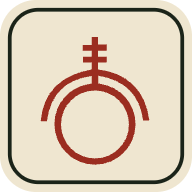
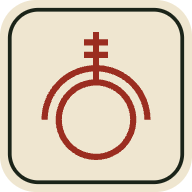
feat: the sigil drawn true, in one place
The hand-drawn seal had a slanted stem top, uneven crossbars and a lopsided
arch. Redrawn from exact shapes on one centre line (ring, a semicircular arch
concentric with it, stem, two equal bars), one stroke weight, as one outline
plus the ring's hole. Shared by the logo, the binding and the wax seal; the
icons are regenerated from it.

Changed region(s): [[0.2188, 0.1562, 0.8125, 0.875], [0.1875, 0.5938, 0.25, 0.6562]]

diff --git a/src/scripts/codex/scenes.ts b/src/scripts/codex/scenes.ts
@@ -1,3 +1,4 @@
+import { SIGIL, SIGIL_CENTRE } from '../../components/sigil';
 import * as THREE from 'three';
 import { SVGLoader } from 'three/examples/jsm/loaders/SVGLoader.js';
 
@@ -96,8 +97,6 @@ export function stilus(): THREE.BufferGeometry[] {
 
 /* ─── Sigillum · the author: the sigil pressed into wax, in laurel ─── */
 
-const SIGIL =
-  'M186.935,163.024c1.83,-0.328 3.848,-0.669 6.065,-1.024l0,-22c-77.616,10.315 -119.236,53.48 -130,131l-18,0c8.029,-85.417 58.948,-134.056 148,-150l0,-20l-25,0l0,-17l25,0l0,-17l-26,0l0,-17l26,0l0,-23l18,0l0,22l26,0l0,18l-26,0l0,17l26,0l0,17l-26,0l0,20c82.809,9.243 138.835,59.577 149,148l-18,0c-9.378,-74.566 -52.801,-117.211 -130,-130l0,23c4.637,-0.159 4.107,0.696 8.491,1.371c56.323,8.67 99.509,57.396 99.509,116.129c0,64.85 -52.65,117.5 -117.5,117.5c-64.85,0 -117.5,-52.65 -117.5,-117.5c0,-59.574 44.431,-108.852 101.935,-116.476Zm15.565,18.976c-54.364,0 -98.5,44.136 -98.5,98.5c0,54.364 44.136,98.5 98.5,98.5c54.364,0 98.5,-44.136 98.5,-98.5c0,-54.364 -44.136,-98.5 -98.5,-98.5Z';
 
 export function sigillum(): THREE.BufferGeometry[] {
   const parts: THREE.BufferGeometry[] = [];
@@ -127,7 +126,7 @@ export function sigillum(): THREE.BufferGeometry[] {
     bevelSize: 2.5,
     bevelSegments: 2,
     curveSegments: 32,
-  }).translate(-205.5, -204.5, -0.06); // centre of the 411×409 viewBox
+  }).translate(-SIGIL_CENTRE.x, -SIGIL_CENTRE.y, -0.06);
   // SVG y points down. Flipping z too keeps the determinant positive, so the
   // winding (and which faces get culled) survives the mirror.
   sigil.scale(0.0041, -0.0041, -1);

diff --git a/src/components/sigil.ts b/src/components/sigil.ts
@@ -1,0 +1,11 @@
+// The author's sigil, the seal used as the site's mark: a ring, an arch round
+// it, and a stem with two crossbars, drawn on one centre line (x = 205) in
+// strokes of one weight. One outline and the ring's hole, so it can be filled,
+// traced as a line (the binding's tooling) or extruded (the wax seal).
+
+/** The 410 × 410 box the sigil is drawn in, and its centre. */
+export const SIGIL_BOX = 410;
+export const SIGIL_CENTRE = { x: 205, y: 212.5 };
+
+export const SIGIL =
+  'M196,27H214V48H240V66H214V84H240V102H214V123.26A158 158 0 0 1 363,281H345A140 140 0 0 0 214,141.29V164.35A117 117 0 1 1 196,164.35V141.29A140 140 0 0 0 65,281H47A158 158 0 0 1 196,123.26V102H170V84H196V66H170V48H196ZM205,182A99 99 0 1 0 205,380A99 99 0 1 0 205,182Z';

diff --git a/CLAUDE.md b/CLAUDE.md
@@ -16,6 +16,8 @@ Home: the Via Sacra (`forum.ts`, geometry in `forum-models.ts`), a 2.5D orthogra
 
 On a phone (portrait) the book is a scroll: the page lies between two wooden rollers (`.roller--top`, `.roller--bottom`, fixed outside `.book` in `Codex.astro`) on the dark of the desk, with no boards. A page change winds the old page up into the bottom roller as it rises to the top, then unwinds the new one down (`scroll-wind`, `scroll-unwind`, `roller-travel`: the roller is its own view-transition group, moved by `translate` over `--scroll-travel`, in step with the page's clip). A first visit finds it rolled up in the middle of the screen and opens it both ways (`opening.ts`).
 
+The sigil (the site's mark) is one path in `src/components/sigil.ts`, drawn true on one centre line: `Logo.astro`, the binding's tooled sigil and the wax seal (`sigillum` in `scenes.ts`) all use it. Change it there, then regenerate the icons.
+
 Icons: `public/favicon.svg` (square, the seal in rubric on paper), `favicon.ico` (16/32/48 PNGs in an ICO), `favicon-48.png`, `favicon-96.png`, `apple-touch-icon.png`, `icon-192.png`/`icon-512.png` and `site.webmanifest`. Search results need a square icon of 48px or more.
 
 Phones: plates narrower than 560px zoom in (`plateZoom` in `passes.ts`) and the view follows the citizen in depth as well. On portrait the plate frame is 4:5 with an explicit width, because iOS Safari sizes an aspect-ratio-only frame too wide. With no hover and no Enter key, the label the citizen stands at becomes the button (`.place-tag.is-actionable`, whose `.tag-act` line says "Tap here to …"), and a `.touch-hint` replaces the keyboard hint. The view tilt follows a mouse only. Links in the index or chapter list only walk the citizen there when at least half the plate is on screen (`inView` in `visible.ts`); otherwise they turn the page straight away.
